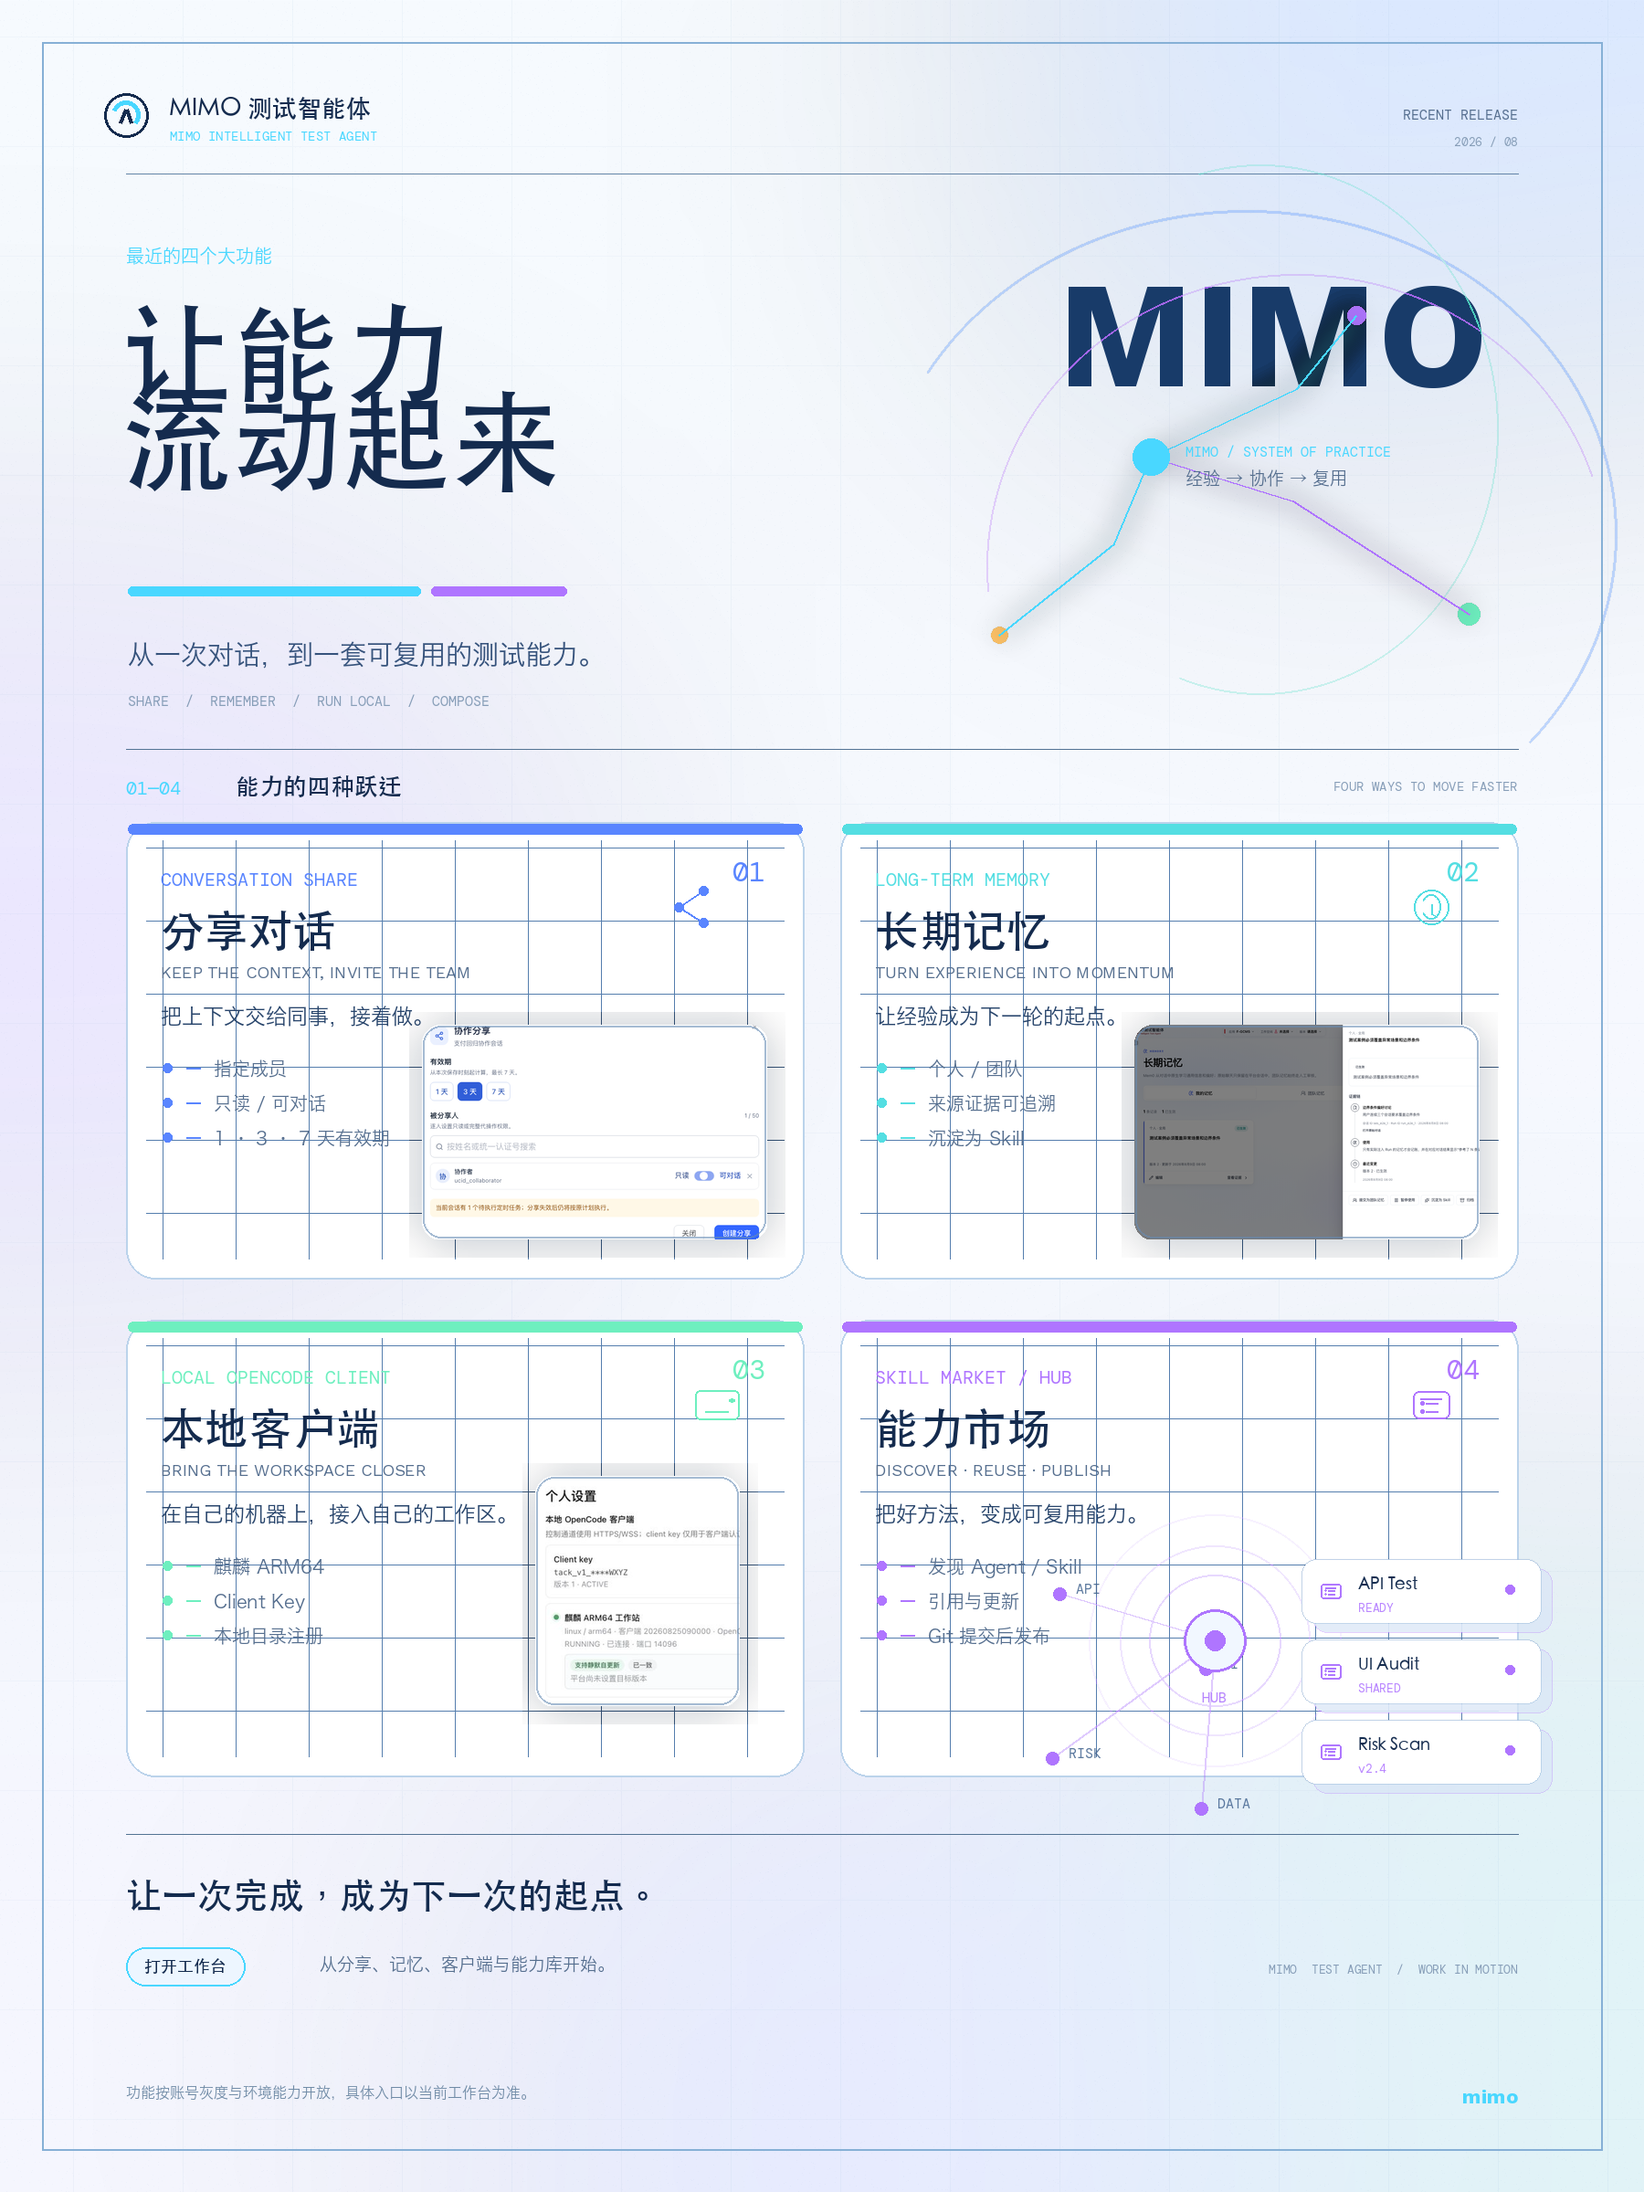
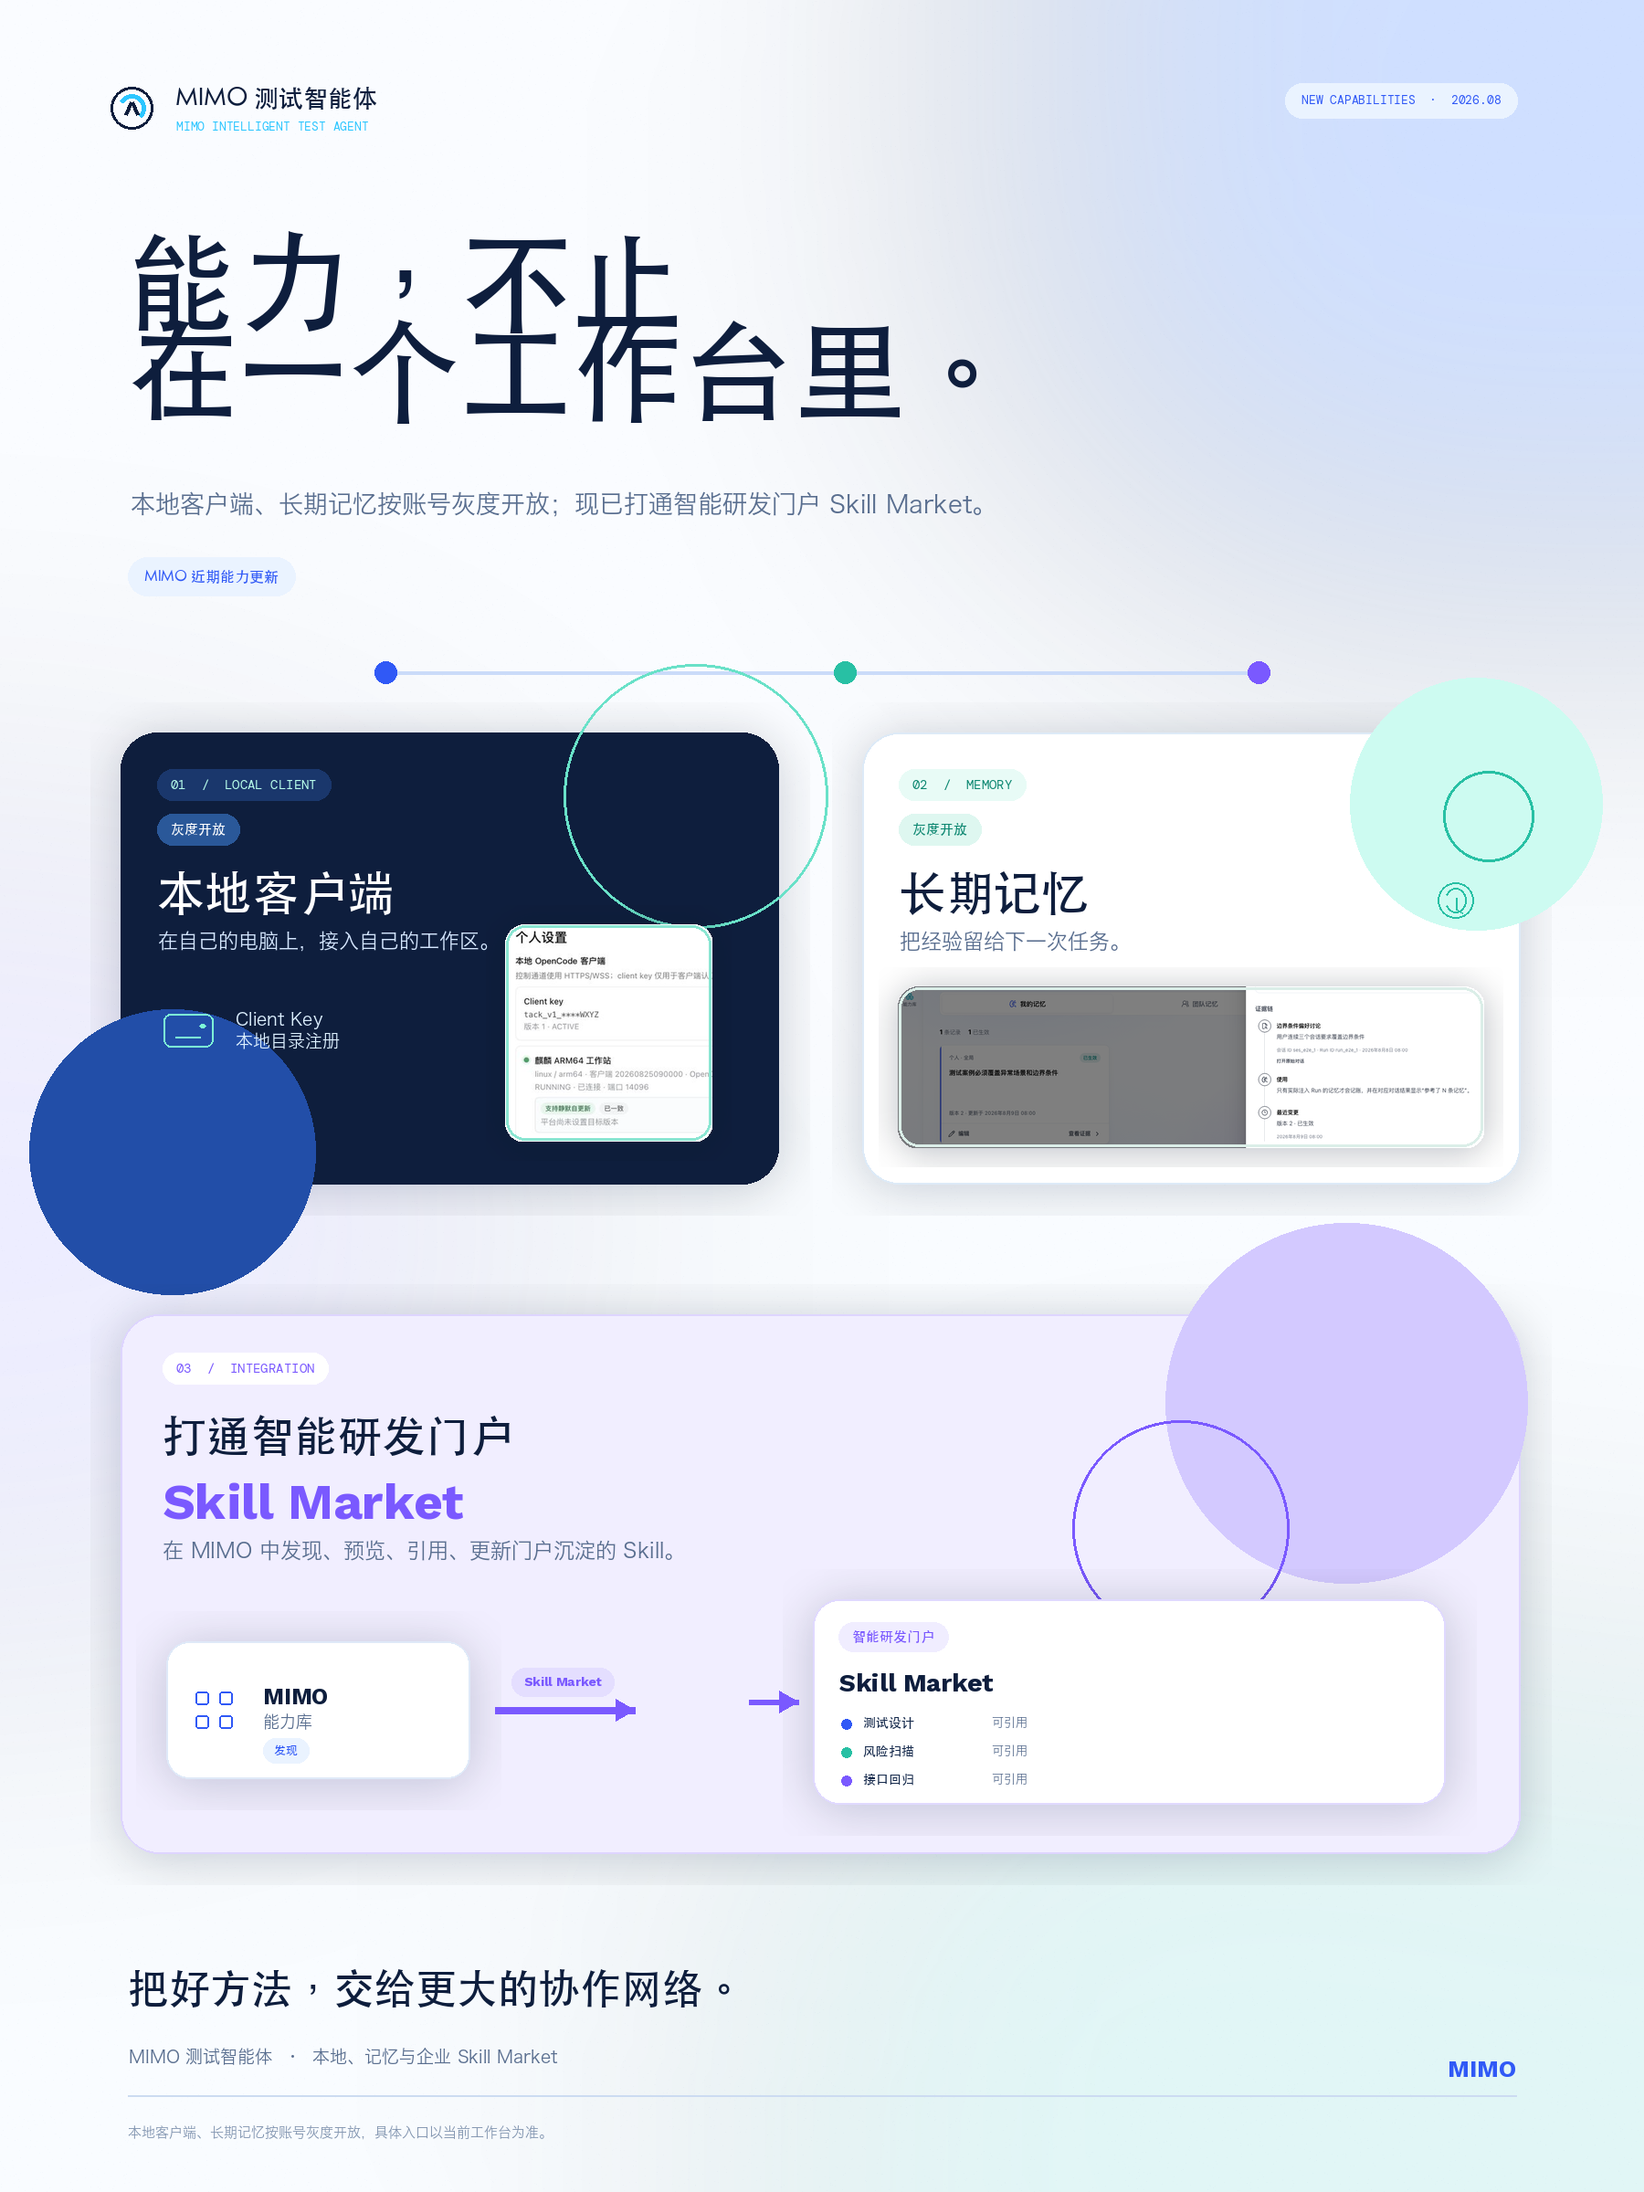
重绘近期能力宣传海报

diff --git a/.agents/session-log.rkk222.md b/.agents/session-log.rkk222.md
@@ -14263,18 +14263,21 @@
 
 ### Why
 
-- 用户需要为分享对话、长期记忆、本地客户端和 Skill Market/能力库四项近期能力制作一张图文并茂的宣传海报，并指定使用 light 视觉风格。
+- 用户需要为近期能力制作一张图文并茂的宣传海报，并指定使用 light 视觉风格。
+- 首版画面因网格、技术标签和小截图过多，显得像说明板而非营销海报；用户明确反馈视觉效果不佳，要求重新设计。
+- 用户随后明确最终内容只保留本地客户端（灰度）、长期记忆（灰度），并重点强调与智能研发门户 `Skill Market` 的打通。
 
 ### What
 
-- 新增 `docs/assets/marketing/mimo-recent-features-poster.png`，采用 1800×2400 的暖白画布、冰蓝/靛青/薄荷绿/紫色系统视觉，包含四项功能卖点、真实产品截图、能力流动主视觉和账号灰度提示。
-- 新增 `docs/assets/marketing/mimo-recent-features-poster-philosophy.md`，记录“流动的能力”设计哲学，作为海报后续复用和精修的视觉依据。
+- 新增并重绘 `docs/assets/marketing/mimo-recent-features-poster.png`：最终稿采用 1800×2400 的轻量产品画册风格，以“能力，不止在一个工作台里。”为主张，使用留白、三张高辨识度功能卡片和真实产品截图组织视觉。
+- 最终三项内容为“本地客户端 / 灰度开放”“长期记忆 / 灰度开放”“打通智能研发门户 Skill Market”；第三项最大化呈现 MIMO 能力库、Skill Market 与智能研发门户之间的发现、预览、引用、更新关系。
+- 新增并重写 `docs/assets/marketing/mimo-recent-features-poster-philosophy.md`，以“好事发生”取代首版“流动的能力”，明确拒绝密集网格与功能清单式构图。
 
 ### How
 
-- 复用用户手册中的分享设置、长期记忆和本地客户端脱敏截图；Skill Market 使用与产品语义一致的能力 Hub 图形化表达。
-- 使用 canvas-design 规范先编写设计哲学，再用 Pillow 渲染 PNG；最终检查 4 张卡片中的截图与卖点未互相遮挡，并用 `python3 .tmp/render_mimo_features_poster.py` 完成可重复渲染验证。
+- 复用用户手册中的长期记忆和本地客户端脱敏截图；Skill Market 使用“MIMO 能力库 → Skill Market → 智能研发门户”的桥接卡片，表达可发现、按需预览、引用与更新的实际边界。
+- 使用 canvas-design 规范先编写设计哲学，再用 Pillow 渲染；根据用户反馈多次收敛为更少文字、更大留白与更强主张的布局，使用 `python3 .tmp/render_mimo_features_poster_v3.py` 完成最终渲染并视觉检查标签、截图和文字不再互相遮挡。
 
 ### Result
 
-- Light 海报已生成并通过视觉检查，尺寸为 1800×2400，PNG 可正常读取；本次仅新增宣传素材与设计说明，不涉及 API、事件、数据库、部署、性能、安全、环境配置或生成 SDK。
+- 最终 Light 海报已生成并通过视觉检查，尺寸为 1800×2400，PNG 可正常读取；本次仅新增宣传素材与设计说明，不涉及 API、事件、数据库、部署、性能、安全、环境配置或生成 SDK。

diff --git a/docs/assets/marketing/mimo-recent-features-poster-philosophy.md b/docs/assets/marketing/mimo-recent-features-poster-philosophy.md
@@ -1,9 +1,9 @@
-# 流动的能力
+# 好事发生
 
-这是一种把“能力”看作流体的视觉哲学：它从一个人的工作台出发，经过协作、记忆与本地执行，最后汇入可复用的公共能力场。画面不解释流程，而是用一条贯穿全幅的光带、四个有秩序的节点和不断回返的细线，表达知识如何被传递、沉淀、调用，再次变成行动。
+这是一种以留白和跃迁为核心的视觉哲学。画面把每一次有效的工作想象成一颗被轻轻抛出的石子：它不是停在原地，而是在更大的水面上留下四次清晰、彼此关联的涟漪。主视觉只保留一条宽阔的流线与四个独立而亲近的落点，让关系先被看见，信息随后才被读懂。
 
-空间采用暖白画布与冰蓝、靛青、薄荷绿、紫罗兰的受控渐变，像一张在日光下展开的系统星图。大面积留白承担呼吸，细密的网格、坐标、短标签和微小刻度构成“可观测”的秩序；局部截取真实界面，让抽象的能力流在产品证据中落地。颜色不是装饰，而是四种不同的跃迁状态：分享是蓝色连接，记忆是青色沉淀，客户端是绿色落地，能力库是紫色聚合。
+空间使用奶白、雾蓝和极浅的薰衣草色，像晴天的纸张。深靛蓝承担文字的重量，电光蓝、薄荷绿和柔紫只在关键动作处出现，形成少而准的色彩记忆。截图不是技术证据墙，而是被珍视的产品片段：经过精确裁切、柔和阴影和从容留白后，像一张张放在桌上的即时拍立得。
 
-构图以不对称的垂直轴建立张力：上方用一个克制而有重量的主标题定锚，中部让四个模块像轨道上的卫星围绕核心运行，下方用细线和短句把视线收束到产品入口。文字只保留必要的名字与承诺，成为图形的一部分；长解释被压缩为节奏明确的短语，让视觉关系先于阅读发生。
+构图拒绝密集网格和功能清单。上方是一句能被远处读到的主张，中部一组大小有别的视觉卡片沿着流线展开，下方只用一句安静的收束。每张卡片只说一件事，用很少的文字、明确的色块和一个可感知的界面细节表达它的性格；所有尺度关系都要经过严谨推敲，形成自然却绝不随意的节奏。
 
-所有边缘、圆角、阴影、截图裁切和字距都必须经过反复校准，呈现出经过大量时间打磨的精密感。每一条连接线都像是手工校正过的测量线，每一块色面都像在深夜反复比对后的结果。最终作品应当是细节克制、层次丰富、执行严谨的专业海报：第一眼有气势，第二眼能读懂，停留更久还能发现系统性与人手工艺的痕迹。
+材质要轻，边缘要干净，阴影要像纸张悬起时才会出现的空气感。每一个圆角、留白、字体层级与截图比例都应体现反复打磨的手工精度；删掉任何只是在填空的装饰，把注意力留给真正重要的形、色与呼吸。最终成品应像一本优秀产品画册的封面：极其克制，却能让人一眼记住。
